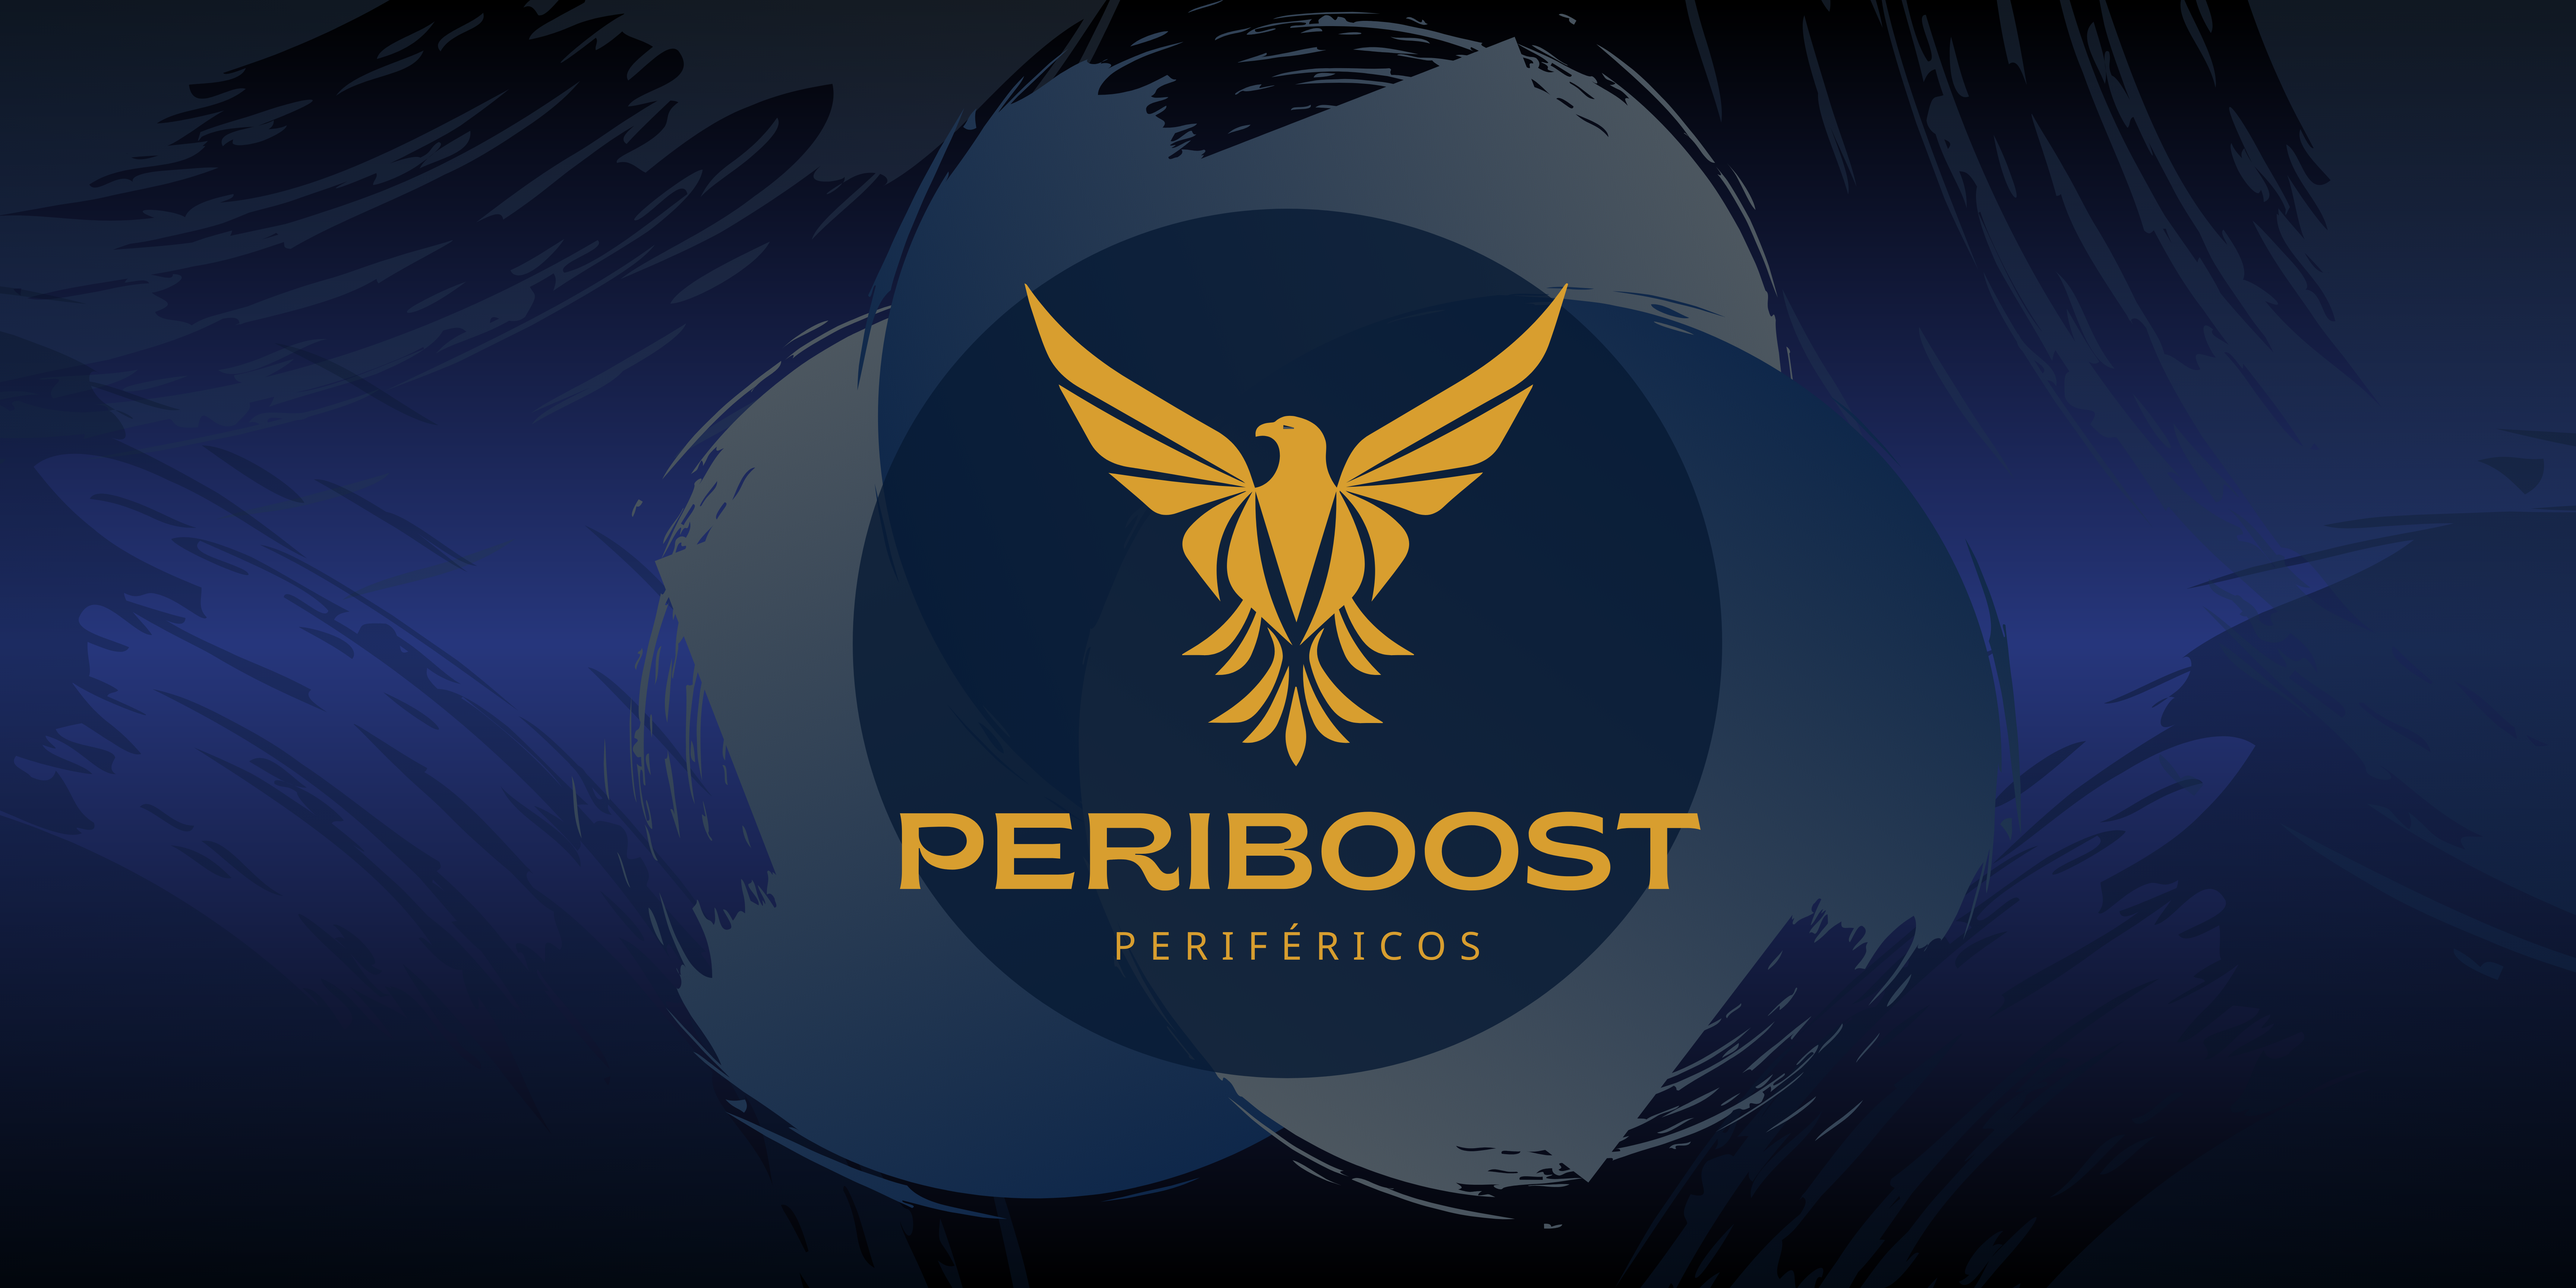
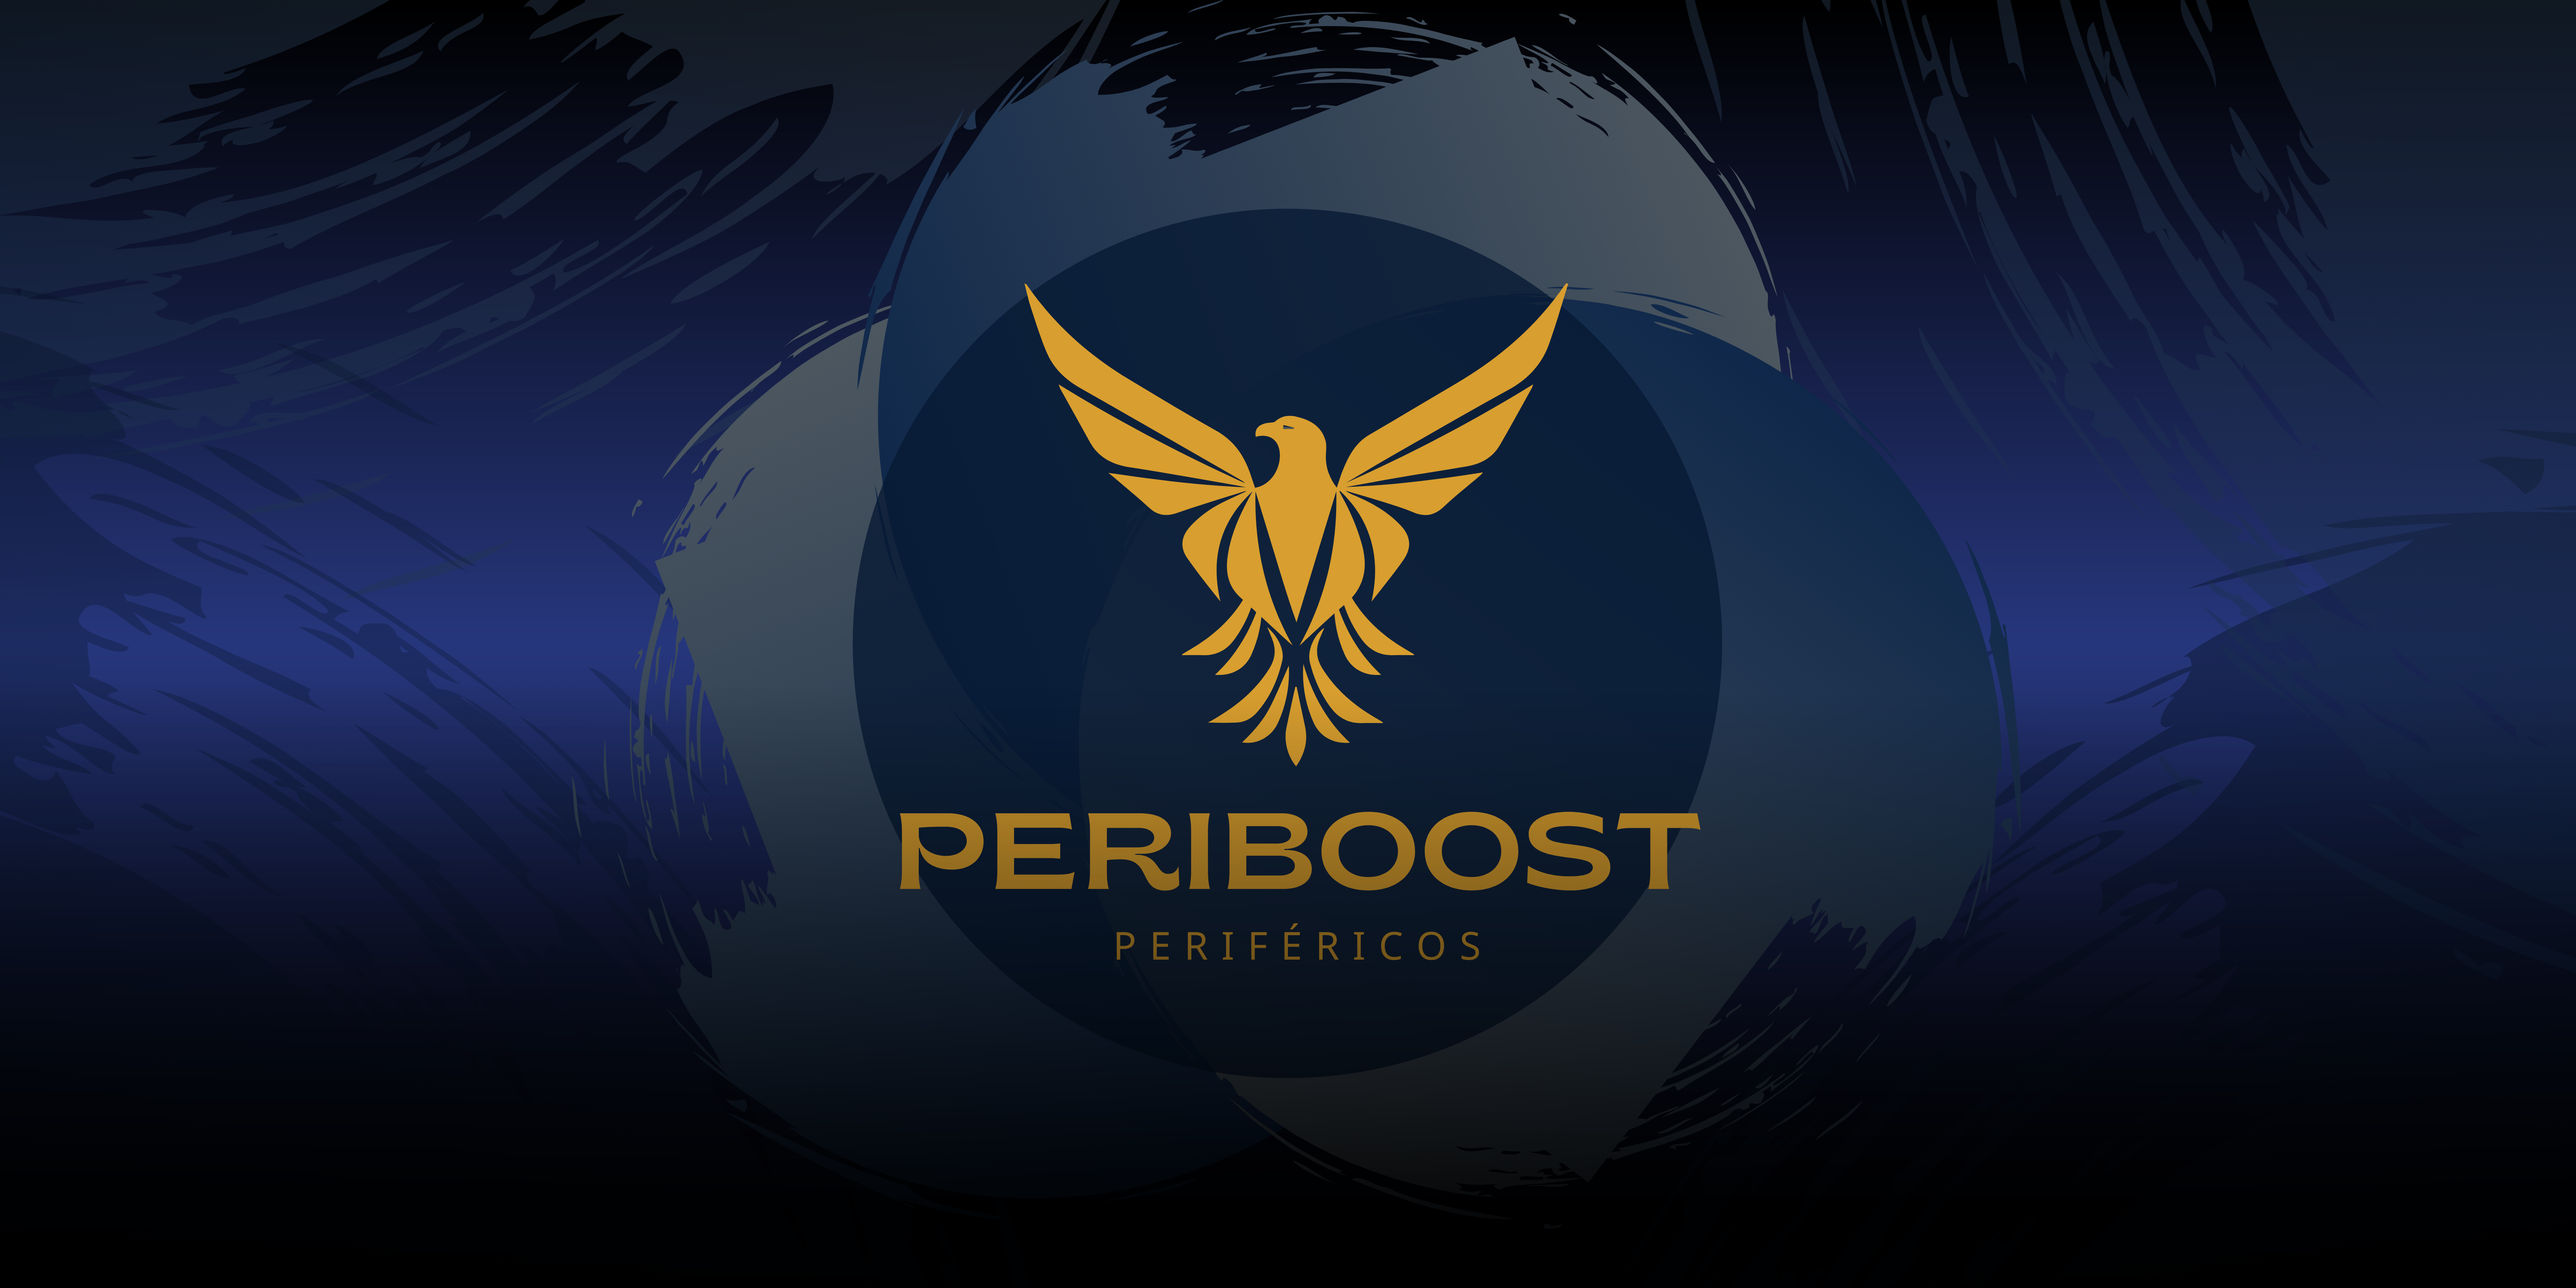
Alterei a cor da e a imagem de fundo

Changed region(s): [[0.0, 0.625, 1.0, 0.9688], [0.9375, 0.7188, 1.0, 0.75]]

diff --git a/assets/style/style.css b/assets/style/style.css
@@ -9,7 +9,7 @@ body {
     background-image: url("../images/BackGround_Body.png");  /*Coloquei esta imagem com intuito de testar o "Header"*/
     background-repeat: no-repeat;
     background-size: 100%;
-    background-color: #010111;
+    background-color: #010103;
     font-family: 'Vollkorn SC', serif;
     overflow-x: hidden;
 }
